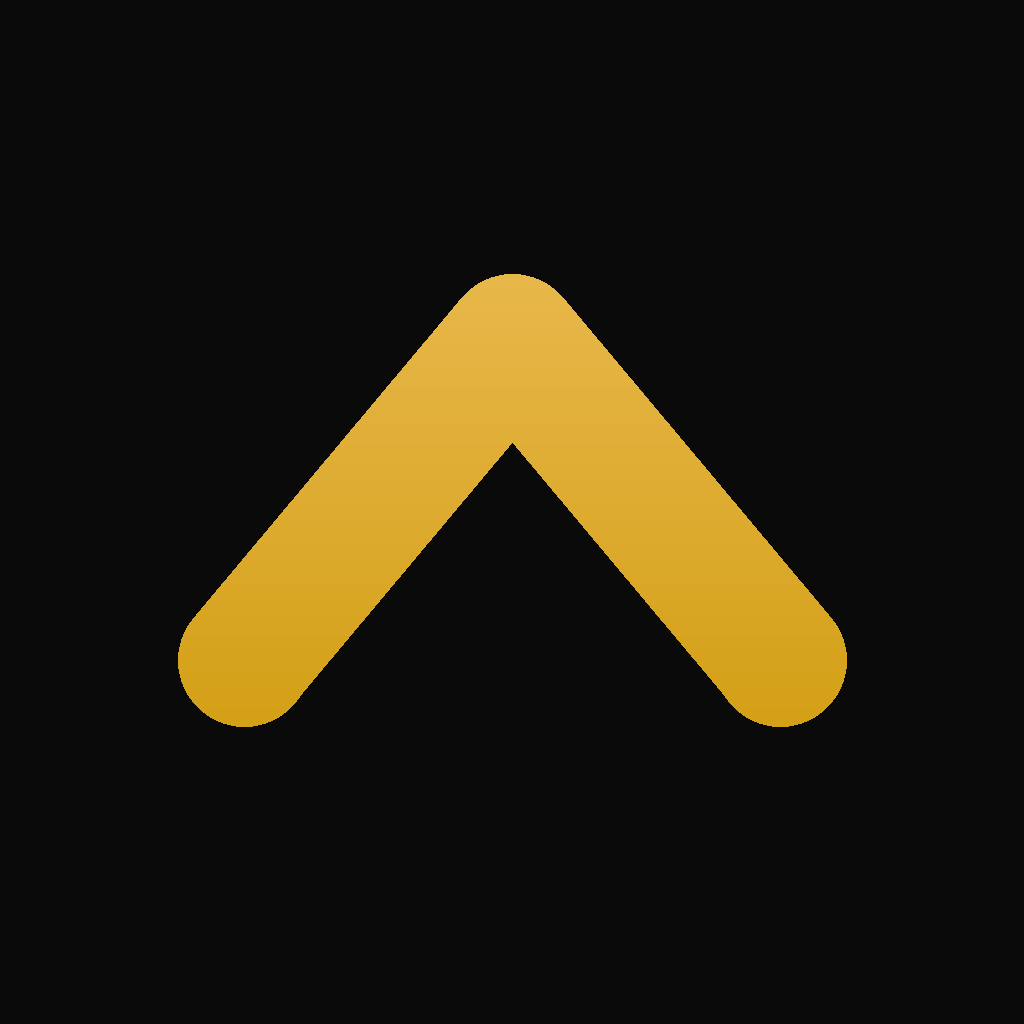
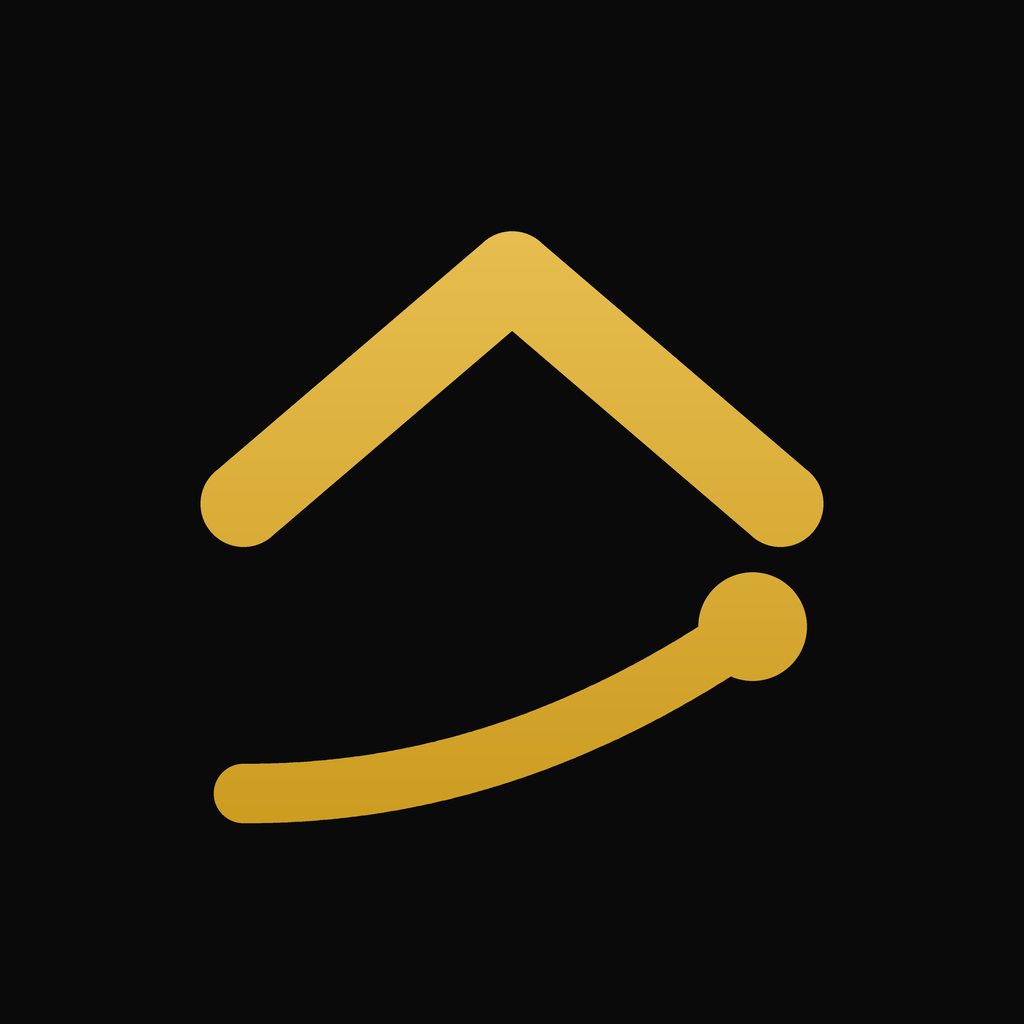
Icône : chevron + courbe ascendante
Le chevron seul ne disait pas ce que fait l'app — il se lisait comme une
flèche d'interface. Ajout d'une courbe ascendante avec point d'arrivée,
nettement détachée sous le chevron : la progression mène au sommet.

Contraintes App Store respectées : 1024x1024, sans canal alpha (motif de
rejet le plus fréquent), RGB. Dessinée en 4096 px puis réduite pour des
bords nets, et vérifiée aux tailles d'affichage réelles d'iOS (180 à 40
px) où le chevron reste lisible.

Le script de génération est versionné (assets/icon-source.py) pour
pouvoir ajuster sans repartir de zéro.

Changed region(s): [[0.1562, 0.2188, 0.8438, 0.8125]]

diff --git a/assets/icon-source.py b/assets/icon-source.py
@@ -1,0 +1,58 @@
+from PIL import Image, ImageDraw
+import os
+
+SS = 4
+N  = 1024 * SS
+BG = (10, 10, 11)
+GOLD_TOP, GOLD_BOTTOM = (240, 202, 96), (196, 145, 18)
+
+def gold(size):
+    g = Image.new("RGB", (1, size)); px = g.load()
+    for y in range(size):
+        t = y / (size - 1)
+        px[0, y] = tuple(round(GOLD_TOP[i] + (GOLD_BOTTOM[i] - GOLD_TOP[i]) * t) for i in range(3))
+    return g.resize((size, size))
+
+def cap(d, p, w):
+    r = w / 2
+    d.ellipse([p[0] - r, p[1] - r, p[0] + r, p[1] + r], fill=255)
+
+canvas = Image.new("RGB", (N, N), BG)
+mask = Image.new("L", (N, N), 0)
+d = ImageDraw.Draw(mask)
+cx = N / 2
+
+# ── Chevron ──────────────────────────────────────────────────────────────────
+# Segments droits : line() donne des bords nets, contrairement au tamponnage.
+CH_W  = int(N * 0.084)
+apex  = (cx, int(N * 0.268))
+left  = (int(N * 0.238), int(N * 0.492))
+right = (int(N * 0.762), int(N * 0.492))
+d.line([left, apex, right], fill=255, width=CH_W, joint="curve")
+for p in (left, apex, right):
+    cap(d, p, CH_W)
+
+# ── Courbe ascendante ────────────────────────────────────────────────────────
+# Tamponnage très dense : une courbe tracée avec line() laisse des encoches.
+CV_W = int(N * 0.058)
+r = CV_W / 2
+x0, x1 = int(N * 0.238), int(N * 0.735)
+y0, y1 = int(N * 0.775), int(N * 0.612)
+prev = None
+for i in range(2001):
+    t = i / 2000
+    x = x0 + (x1 - x0) * t
+    y = y0 + (y1 - y0) * (t ** 2.1)
+    if prev is None or abs(x - prev[0]) + abs(y - prev[1]) > r / 8:
+        d.ellipse([x - r, y - r, x + r, y + r], fill=255)
+        prev = (x, y)
+cap(d, (x0, y0), CV_W)
+
+# Point d'arrivée
+pr = int(N * 0.053)
+d.ellipse([x1 - pr, y1 - pr, x1 + pr, y1 + pr], fill=255)
+
+canvas.paste(gold(N), (0, 0), mask)
+out = canvas.resize((1024, 1024), Image.LANCZOS).convert("RGB")
+out.save(os.path.expanduser("~/Projects/FitTrackIA/assets/icon.png"), "PNG", optimize=True)
+print("✅ icône v3")
